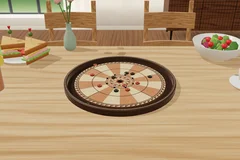
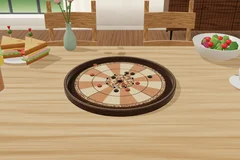
Crokinole marquetry: the centre's triangles back as before; the border band is a triangle lattice bent round the ring (two rows, each piece its own wood, tone and grain, glue seams)
Claude-Session: https://claude.ai/code/session_019p8B6UqeAdsK6vNEgpDiqd

diff --git a/atlas/models/crokinole.js b/atlas/models/crokinole.js
@@ -94,35 +94,32 @@
     classic: (N) => { const O = { cx: 4, by: -46, asp: .11, sp: .62, wp: 2.2, ring: .55, fib: .34, drift: .32 }, A = hx('#ebd09d'), B = hx('#b8864f');
       return (x, y) => mix(A, B, .14 + woodT(N, x, y, O) * .66); },
     marq: (N) => {
-      // every piece is cut to its place: the fields are rings of polar cells between the stringers, each cell split into
-      // triangles (a sawtooth band outside the 5 line; inside the 15 a sixteen-ray star, a sawtooth ring and a ring of
-      // diamonds), each piece its own wood with the grain along the cell, glue seams between pieces
-      const O = { cx: 0, by: -40, asp: .08, sp: .45, wp: 1.4, ring: .5, fib: .4, drift: .25 }, SEAM = [40, 24, 14];
-      const piece = (w, tan, rad, off, along) => mix(w[0], w[1], .14 + woodT(N, along ? tan : rad, along ? rad : tan, Object.assign({}, O, { off, by: -30 })) * .5);
-      const seamed = (col, d) => d < .045 ? mix(col, SEAM, .6) : d < .08 ? mix(col, SEAM, .2) : col;
-      // a ring r0..r1 cut into n cells; kind: 'saw' (one diagonal), 'dia' (both diagonals: four triangles), 'ray' (no split)
-      const ringPx = (r, th, r0, r1, n, kind, woods, seed) => {
-        const t = (r - r0) / (r1 - r0), a = (th + Math.PI) / (2 * Math.PI) * n, ia = Math.floor(a), fa = a - ia, arc = 2 * Math.PI * r / n, wd = r1 - r0;
-        const tan = (fa - .5) * arc; let k, dd = Math.min(fa, 1 - fa) * arc, along = true;
-        if (kind === 'saw') { const up = fa < t; k = up ? 0 : 1; dd = Math.min(dd, Math.abs(fa - t) * Math.min(arc, wd) * .7); along = up; }
-        else if (kind === 'dia') { const u = fa - .5, v = t - .5, q = Math.abs(u) * arc > Math.abs(v) * wd; k = q ? (u < 0 ? 0 : 2) : (v < 0 ? 1 : 3); k = k % 2; dd = Math.min(dd, Math.abs(Math.abs(u) * arc - Math.abs(v) * wd) * .7); along = !q; }
-        else k = ia % 2;
-        const w = woods[(k + (kind === 'ray' ? 0 : ia % 2) * (woods.length > 2 ? 1 : 0)) % woods.length];
-        return seamed(piece(w, tan, r, seed + ia * 7.3 + k * 3.1, along), dd);
-      };
+      // inside the 15: small triangles of maple, cherry and walnut. Outside the 5: the same three woods, but every piece cut to
+      // the ring — a triangle lattice bent round the board (two rows between the stringers), each piece its own wood, tone
+      // and grain direction, glue seams between them
+      const W3 = [WOOD.maple, WOOD.cherry, WOOD.walnut], O = { cx: 0, by: -40, asp: .08, sp: .45, wp: 1.4, ring: .5, fib: .4, drift: .25 }, SEAM = [40, 24, 14];
+      const woodOf = h => W3[h < .42 ? 0 : h < .76 ? 1 : 2];
+      const grain = (x, y, dir, h, w) => { const c = Math.cos(dir), sn = Math.sin(dir), t = woodT(N, x * c + y * sn, -x * sn + y * c, Object.assign({}, O, { off: h * 40 })); return mix(w[0], w[1], .1 + t * .5 + (hash(h * 91, 3, 7) - .5) * .12); };
+      const B0 = R5 + .7, ROWS = 2, BW = (RB - B0) / ROWS, NB = Math.round(2 * Math.PI * (B0 + RB) / 2 / (BW / .866));
       return (x, y) => {
-        const r = Math.hypot(x, y), th = Math.atan2(y, x);
-        if (r > R5 + .7) return ringPx(r, th, R5 + .7, RB, 64, 'saw', [WOOD.maple, WOOD.walnut], 11);
-        if (r < R15 - .6) {
-          if (r < 4.4) return ringPx(r, th, 0, 4.4, 16, 'ray', [WOOD.cherry, WOOD.maple], 3);
-          if (r < 6.9) return ringPx(r, th, 4.4, 6.9, 24, 'saw', [WOOD.walnut, WOOD.maple, WOOD.cherry], 5);
-          return ringPx(r, th, 6.9, R15 - .6, 28, 'dia', [WOOD.maple, WOOD.cherry], 7);
+        const r = Math.hypot(x, y);
+        if (r < R15 - .35) {
+          const T = triTile(x, y, 1.7), col = grain(x, y, T.dir, T.h, woodOf(T.h));
+          return T.e < .035 ? mix(col, SEAM, .55) : col;
         }
-        const n = 16, k = Math.floor((th + Math.PI) / (2 * Math.PI / n)), thc = -Math.PI + (k + .5) * 2 * Math.PI / n;
+        if (r > B0) {
+          const th = Math.atan2(y, x), rr = (r - B0) / BW, row = Math.min(ROWS - 1, Math.floor(rr)), t = rr - row;
+          const a = (th + Math.PI) / (2 * Math.PI) * NB + row * .5 - t * .5, ia = Math.floor(a), fa = a - ia, up = fa + t < 1 ? 1 : 0;
+          const e = up ? Math.min(fa, t, 1 - fa - t) : Math.min(1 - fa, 1 - t, fa + t - 1);
+          const h = hash(ia, row, up), dir = th + Math.PI / 2 + (Math.floor(hash(row, ia, up + 3) * 3)) * Math.PI / 3;
+          const col = grain(x, y, dir, h, woodOf(h));
+          return e < .045 ? mix(col, SEAM, .6) : e < .08 ? mix(col, SEAM, .2) : col;
+        }
+        const n = 16, th = Math.atan2(y, x), k = Math.floor((th + Math.PI) / (2 * Math.PI / n)), thc = -Math.PI + (k + .5) * 2 * Math.PI / n;
         const tan = r * Math.sin(th - thc), w = k % 2 ? WOOD.cherry : WOOD.maple;
         const col = mix(w[0], w[1], .12 + woodT(N, tan, r, Object.assign({}, O, { off: k * 9.7, by: -30 })) * .5);
         const seam = Math.min(Math.abs(r * Math.sin(th - (-Math.PI + k * 2 * Math.PI / n))), Math.abs(r * Math.sin(th - (-Math.PI + (k + 1) * 2 * Math.PI / n))));
-        return seamed(col, seam);
+        return seam < .05 ? mix(col, SEAM, .5) : col;
       };
     },
     winter: (N) => { const A = hx('#eef6fb'), B = hx('#b9d2e4');
@@ -146,7 +143,7 @@
   function decorate(g, look, u, X0) {
     const at = (x, y) => [X0(x), X0(y)];
     if (look === 'marq') {   // maple and walnut stringers round the triangle fields
-      for (const [r, c, w] of [[R15 - .38, '#e9cf9c', .36], [R15 - .6, '#3a2414', .08], [R5 + .48, '#e9cf9c', .36], [R5 + .7, '#3a2414', .08], [6.9, '#3a2414', .12], [4.4, '#e9cf9c', .2], [4.4 + .14, '#3a2414', .06], [RB - .06, '#3a2414', .14]]) { g.strokeStyle = c; g.lineWidth = w * u; g.beginPath(); g.arc(X0(0), X0(0), r * u, 0, Math.PI * 2); g.stroke(); }
+      for (const [r, c, w] of [[R15 - .35, '#e9cf9c', .22], [R15 - .6, '#3a2414', .1], [R5 + .45, '#e9cf9c', .22], [R5 + .7, '#3a2414', .1], [R5 + .7 + (RB - R5 - .7) / 2, 'rgba(40,24,14,.7)', .05], [RB - .06, '#3a2414', .14]]) { g.strokeStyle = c; g.lineWidth = w * u; g.beginPath(); g.arc(X0(0), X0(0), r * u, 0, Math.PI * 2); g.stroke(); }
     } else if (look === 'winter') {
       // a soft aurora veil, a red maple leaf under the hole, snowflakes
       g.save(); g.globalCompositeOperation = 'multiply';

diff --git a/dots/index.html b/dots/index.html
@@ -2297,7 +2297,7 @@ document.querySelector('#rsResume').onclick = () => { document.querySelector('#r
   const f = document.createElement('link'); f.rel = 'stylesheet'; f.href = 'https://fonts.googleapis.com/css2?family=RocknRoll+One&family=Zen+Maru+Gothic:wght@500;700;900&family=Fredoka:wght@600;700&family=Kalam:wght@400;700&family=Zen+Kurenaido&family=Nanum+Pen+Script&family=Long+Cang&family=Aref+Ruqaa:wght@700&display=swap'; document.head.appendChild(f);   // (Kalam … Aref Ruqaa: the handwritten box initials and tally on the notebook page)
   const load = src => new Promise((res, rej) => { const s = document.createElement('script'); s.src = src; s.onload = res; s.onerror = rej; document.body.appendChild(s); });
   if (window.AtlasLoading) { AtlasLoading.show(); setTimeout(() => AtlasLoading.hide(), 12000); }   // safety net
-  load('https://cdnjs.cloudflare.com/ajax/libs/three.js/r128/three.min.js').then(() => load('../atlas/table3d.js?v=132')).then(() => load('../atlas/tables3d.js?v=46')).then(() => load('../atlas/skin/common.js?v=51npc')).then(() => load('../atlas/models/dots.js?v=3l14')).then(() => load('../atlas/skin/dots.js?v=7l14'))
+  load('https://cdnjs.cloudflare.com/ajax/libs/three.js/r128/three.min.js').then(() => load('../atlas/table3d.js?v=132')).then(() => load('../atlas/tables3d.js?v=47')).then(() => load('../atlas/skin/common.js?v=51npc')).then(() => load('../atlas/models/dots.js?v=3l14')).then(() => load('../atlas/skin/dots.js?v=7l14'))
     .catch(() => { document.documentElement.classList.remove('atlas-skin'); if (window.AtlasLoading) AtlasLoading.hide(); });
 })();
 </script>

diff --git a/ur/index.html b/ur/index.html
@@ -1027,7 +1027,7 @@ html:not([lang=ja]):not([lang=zh]):not([lang="zh-TW"]):not([lang=ko]) .result-bi
   const f = document.createElement('link'); f.rel = 'stylesheet'; f.href = 'https://fonts.googleapis.com/css2?family=RocknRoll+One&family=Zen+Maru+Gothic:wght@500;700;900&family=Fredoka:wght@600;700&display=swap'; document.head.appendChild(f);
   const load = src => new Promise((res, rej) => { const s = document.createElement('script'); s.src = src; s.onload = res; s.onerror = rej; document.body.appendChild(s); });
   if (window.AtlasLoading) { AtlasLoading.show(); setTimeout(() => AtlasLoading.hide(), 12000); }   // safety net
-  load('https://cdnjs.cloudflare.com/ajax/libs/three.js/r128/three.min.js').then(() => load('../atlas/table3d.js?v=132')).then(() => load('../atlas/tables3d.js?v=46')).then(() => load('../atlas/skin/common.js?v=51npc')).then(() => load('../atlas/models/ur-dice.js?v=2l14')).then(() => load('../atlas/models/ur.js?v=3l14')).then(() => load('../atlas/skin/ur.js?v=14l14'))
+  load('https://cdnjs.cloudflare.com/ajax/libs/three.js/r128/three.min.js').then(() => load('../atlas/table3d.js?v=132')).then(() => load('../atlas/tables3d.js?v=47')).then(() => load('../atlas/skin/common.js?v=51npc')).then(() => load('../atlas/models/ur-dice.js?v=2l14')).then(() => load('../atlas/models/ur.js?v=3l14')).then(() => load('../atlas/skin/ur.js?v=14l14'))
     .catch(() => { const u = new URL(location.href); u.searchParams.delete('skin'); location.replace(u.href); });   // (the 3D files are missing: the plain 2D page)
 })();
 </script>

diff --git a/connect4/index.html b/connect4/index.html
@@ -3376,7 +3376,7 @@ document.addEventListener('keydown', e => {
   const f = document.createElement('link'); f.rel = 'stylesheet'; f.href = 'https://fonts.googleapis.com/css2?family=RocknRoll+One&family=Zen+Maru+Gothic:wght@500;700;900&family=Fredoka:wght@600;700&display=swap'; document.head.appendChild(f);
   const load = src => new Promise((res, rej) => { const s = document.createElement('script'); s.src = src; s.onload = res; s.onerror = rej; document.body.appendChild(s); });
   if (window.AtlasLoading) { AtlasLoading.show(); setTimeout(() => AtlasLoading.hide(), 12000); }   // safety net
-  load('https://cdnjs.cloudflare.com/ajax/libs/three.js/r128/three.min.js').then(() => load('../atlas/table3d.js?v=132')).then(() => load('../atlas/tables3d.js?v=46')).then(() => load('../atlas/skin/common.js?v=51npc')).then(() => load('../atlas/models/connect4.js?v=5l14')).then(() => load('../atlas/games/connect4-tiles.js?v=1l14')).then(() => load('../atlas/skin/connect4.js?v=6l14-aim'))
+  load('https://cdnjs.cloudflare.com/ajax/libs/three.js/r128/three.min.js').then(() => load('../atlas/table3d.js?v=132')).then(() => load('../atlas/tables3d.js?v=47')).then(() => load('../atlas/skin/common.js?v=51npc')).then(() => load('../atlas/models/connect4.js?v=5l14')).then(() => load('../atlas/games/connect4-tiles.js?v=1l14')).then(() => load('../atlas/skin/connect4.js?v=6l14-aim'))
     .catch(() => { document.documentElement.classList.remove('atlas-skin'); if (window.AtlasLoading) AtlasLoading.hide(); });
 })();
 </script>

diff --git a/morris/index.html b/morris/index.html
@@ -3866,7 +3866,7 @@ window.addEventListener('resize', () => renderFx());
   const f = document.createElement('link'); f.rel = 'stylesheet'; f.href = 'https://fonts.googleapis.com/css2?family=RocknRoll+One&family=Zen+Maru+Gothic:wght@500;700;900&family=Fredoka:wght@600;700&display=swap'; document.head.appendChild(f);
   const load = src => new Promise((res, rej) => { const s = document.createElement('script'); s.src = src; s.onload = res; s.onerror = rej; document.body.appendChild(s); });
   if (window.AtlasLoading) { AtlasLoading.show(); setTimeout(() => AtlasLoading.hide(), 12000); }   // safety net
-  load('https://cdnjs.cloudflare.com/ajax/libs/three.js/r128/three.min.js').then(() => load('../atlas/table3d.js?v=132')).then(() => load('../atlas/tables3d.js?v=46')).then(() => load('../atlas/skin/common.js?v=51npc')).then(() => load('../atlas/models/morris.js?v=6l14')).then(() => load('../atlas/games/morris-pieces.js?v=2l14')).then(() => load('../atlas/skin/morris.js?v=6l14'))
+  load('https://cdnjs.cloudflare.com/ajax/libs/three.js/r128/three.min.js').then(() => load('../atlas/table3d.js?v=132')).then(() => load('../atlas/tables3d.js?v=47')).then(() => load('../atlas/skin/common.js?v=51npc')).then(() => load('../atlas/models/morris.js?v=6l14')).then(() => load('../atlas/games/morris-pieces.js?v=2l14')).then(() => load('../atlas/skin/morris.js?v=6l14'))
     .catch(() => { document.documentElement.classList.remove('atlas-skin'); if (window.AtlasLoading) AtlasLoading.hide(); });
 })();
 </script>

diff --git a/senet/index.html b/senet/index.html
@@ -1028,7 +1028,7 @@ html:not([lang=ja]):not([lang=zh]):not([lang=zh-TW]):not([lang=ko]) .result-big{
   const f = document.createElement('link'); f.rel = 'stylesheet'; f.href = 'https://fonts.googleapis.com/css2?family=RocknRoll+One&family=Zen+Maru+Gothic:wght@500;700;900&family=Fredoka:wght@600;700&display=swap'; document.head.appendChild(f);
   const load = src => new Promise((res, rej) => { const s = document.createElement('script'); s.src = src; s.onload = res; s.onerror = rej; document.body.appendChild(s); });
   if (window.AtlasLoading) { AtlasLoading.show(); setTimeout(() => AtlasLoading.hide(), 12000); }   // safety net
-  load('https://cdnjs.cloudflare.com/ajax/libs/three.js/r128/three.min.js').then(() => load('../atlas/table3d.js?v=132')).then(() => load('../atlas/tables3d.js?v=46')).then(() => load('../atlas/skin/common.js?v=51npc')).then(() => load('../atlas/models/senet.js?v=10l14')).then(() => load('../atlas/skin/senet.js?v=10l14'))
+  load('https://cdnjs.cloudflare.com/ajax/libs/three.js/r128/three.min.js').then(() => load('../atlas/table3d.js?v=132')).then(() => load('../atlas/tables3d.js?v=47')).then(() => load('../atlas/skin/common.js?v=51npc')).then(() => load('../atlas/models/senet.js?v=10l14')).then(() => load('../atlas/skin/senet.js?v=10l14'))
     .catch(() => { const u = new URL(location.href); u.searchParams.delete('skin'); location.replace(u.href); });   // (the 3D files are missing: the plain 2D page)
 })();
 </script>

diff --git a/fanorona/index.html b/fanorona/index.html
@@ -1685,7 +1685,7 @@ body.lt-on .reserve .onb.on{border-color:var(--accent);box-shadow:0 0 0 1px var(
   const f = document.createElement('link'); f.rel = 'stylesheet'; f.href = 'https://fonts.googleapis.com/css2?family=RocknRoll+One&family=Zen+Maru+Gothic:wght@500;700;900&family=Fredoka:wght@600;700&display=swap'; document.head.appendChild(f);
   const load = src => new Promise((res, rej) => { const s = document.createElement('script'); s.src = src; s.onload = res; s.onerror = rej; document.body.appendChild(s); });
   if (window.AtlasLoading) { AtlasLoading.show(); setTimeout(() => AtlasLoading.hide(), 12000); }   // safety net
-  load('https://cdnjs.cloudflare.com/ajax/libs/three.js/r128/three.min.js').then(() => load('../atlas/table3d.js?v=132')).then(() => load('../atlas/tables3d.js?v=46')).then(() => load('../atlas/skin/common.js?v=51npc')).then(() => load('../atlas/models/fanorona.js?v=3l14')).then(() => load('../atlas/skin/fanorona.js?v=6l14'))
+  load('https://cdnjs.cloudflare.com/ajax/libs/three.js/r128/three.min.js').then(() => load('../atlas/table3d.js?v=132')).then(() => load('../atlas/tables3d.js?v=47')).then(() => load('../atlas/skin/common.js?v=51npc')).then(() => load('../atlas/models/fanorona.js?v=3l14')).then(() => load('../atlas/skin/fanorona.js?v=6l14'))
     .catch(() => { document.documentElement.classList.remove('atlas-skin'); if (window.AtlasLoading) AtlasLoading.hide(); });
 })();
 </script>

diff --git a/mancala/index.html b/mancala/index.html
@@ -1584,7 +1584,7 @@ html[data-sk=ocean] .seed{box-shadow:0 calc(var(--u) * .025) calc(var(--u) * .04
   const f = document.createElement('link'); f.rel = 'stylesheet'; f.href = 'https://fonts.googleapis.com/css2?family=RocknRoll+One&family=Zen+Maru+Gothic:wght@500;700;900&family=Fredoka:wght@600;700&display=swap'; document.head.appendChild(f);
   const load = src => new Promise((res, rej) => { const s = document.createElement('script'); s.src = src; s.onload = res; s.onerror = rej; document.body.appendChild(s); });
   if (window.AtlasLoading) { AtlasLoading.show(); setTimeout(() => AtlasLoading.hide(), 12000); }   // safety net
-  load('https://cdnjs.cloudflare.com/ajax/libs/three.js/r128/three.min.js').then(() => load('../atlas/table3d.js?v=132')).then(() => load('../atlas/tables3d.js?v=46')).then(() => load('../atlas/skin/common.js?v=51npc')).then(() => load('../atlas/models/mancala.js?v=4l14')).then(() => load('../atlas/skin/mancala.js?v=10l14'))
+  load('https://cdnjs.cloudflare.com/ajax/libs/three.js/r128/three.min.js').then(() => load('../atlas/table3d.js?v=132')).then(() => load('../atlas/tables3d.js?v=47')).then(() => load('../atlas/skin/common.js?v=51npc')).then(() => load('../atlas/models/mancala.js?v=4l14')).then(() => load('../atlas/skin/mancala.js?v=10l14'))
     .catch(() => { document.documentElement.classList.remove('atlas-skin'); if (window.AtlasLoading) AtlasLoading.hide(); });
 })();
 </script>

diff --git a/gomoku/index.html b/gomoku/index.html
@@ -1441,7 +1441,7 @@ body.skin-ink .st.b{background:radial-gradient(circle at 34% 28%,#8a8f98 0%,#3c4
   const f = document.createElement('link'); f.rel = 'stylesheet'; f.href = 'https://fonts.googleapis.com/css2?family=RocknRoll+One&family=Zen+Maru+Gothic:wght@500;700;900&family=Fredoka:wght@600;700&display=swap'; document.head.appendChild(f);
   const load = src => new Promise((res, rej) => { const s = document.createElement('script'); s.src = src; s.onload = res; s.onerror = rej; document.body.appendChild(s); });
   if (window.AtlasLoading) { AtlasLoading.show(); setTimeout(() => AtlasLoading.hide(), 12000); }   // safety net
-  load('https://cdnjs.cloudflare.com/ajax/libs/three.js/r128/three.min.js').then(() => load('../atlas/table3d.js?v=132')).then(() => load('../atlas/tables3d.js?v=46')).then(() => load('../atlas/skin/common.js?v=51npc')).then(() => load('../atlas/models/goban.js?v=11l14')).then(() => load('../atlas/skin/gomoku.js?v=4l14'))
+  load('https://cdnjs.cloudflare.com/ajax/libs/three.js/r128/three.min.js').then(() => load('../atlas/table3d.js?v=132')).then(() => load('../atlas/tables3d.js?v=47')).then(() => load('../atlas/skin/common.js?v=51npc')).then(() => load('../atlas/models/goban.js?v=11l14')).then(() => load('../atlas/skin/gomoku.js?v=4l14'))
     .catch(() => { document.documentElement.classList.remove('atlas-skin'); if (window.AtlasLoading) AtlasLoading.hide(); });
 })();
 </script>

diff --git a/shogi/index.html b/shogi/index.html
@@ -5599,7 +5599,7 @@ if (window.Online && Online.available) setInterval(() => { if (dock.on) chatStar
   const f = document.createElement('link'); f.rel = 'stylesheet'; f.href = 'https://fonts.googleapis.com/css2?family=RocknRoll+One&family=Zen+Maru+Gothic:wght@500;700;900&family=Fredoka:wght@600;700&display=swap'; document.head.appendChild(f);
   const load = src => new Promise((res, rej) => { const s = document.createElement('script'); s.src = src; s.onload = res; s.onerror = rej; document.body.appendChild(s); });
   if (window.AtlasLoading) { AtlasLoading.show(); setTimeout(() => AtlasLoading.hide(), 12000); }   // safety net
-  load('https://cdnjs.cloudflare.com/ajax/libs/three.js/r128/three.min.js').then(() => load('../atlas/table3d.js?v=132')).then(() => load('../atlas/tables3d.js?v=46')).then(() => load('../atlas/skin/common.js?v=51npc')).then(() => load('../atlas/models/shogi.js?v=22l14')).then(() => load('../atlas/skin/shogi.js?v=13l14'))
+  load('https://cdnjs.cloudflare.com/ajax/libs/three.js/r128/three.min.js').then(() => load('../atlas/table3d.js?v=132')).then(() => load('../atlas/tables3d.js?v=47')).then(() => load('../atlas/skin/common.js?v=51npc')).then(() => load('../atlas/models/shogi.js?v=22l14')).then(() => load('../atlas/skin/shogi.js?v=13l14'))
     .catch(() => { document.documentElement.classList.remove('atlas-skin'); if (window.AtlasLoading) AtlasLoading.hide(); });
 })();
 </script>

diff --git a/ugolki/index.html b/ugolki/index.html
@@ -1389,7 +1389,7 @@ html:is([data-bd=gzhel],[data-bd=birch]) .reserve .rsv-plate .rsv-w:not(.hot) b{
   const f = document.createElement('link'); f.rel = 'stylesheet'; f.href = 'https://fonts.googleapis.com/css2?family=RocknRoll+One&family=Zen+Maru+Gothic:wght@500;700;900&family=Fredoka:wght@600;700&display=swap'; document.head.appendChild(f);
   const load = src => new Promise((res, rej) => { const s = document.createElement('script'); s.src = src; s.onload = res; s.onerror = rej; document.body.appendChild(s); });
   if (window.AtlasLoading) { AtlasLoading.show(); setTimeout(() => AtlasLoading.hide(), 12000); }   // safety net
-  load('https://cdnjs.cloudflare.com/ajax/libs/three.js/r128/three.min.js').then(() => load('../atlas/table3d.js?v=132')).then(() => load('../atlas/tables3d.js?v=46')).then(() => load('../atlas/skin/common.js?v=51npc')).then(() => load('../atlas/models/ugolki.js?v=4l14')).then(() => load('../atlas/skin/ugolki.js?v=2l14'))
+  load('https://cdnjs.cloudflare.com/ajax/libs/three.js/r128/three.min.js').then(() => load('../atlas/table3d.js?v=132')).then(() => load('../atlas/tables3d.js?v=47')).then(() => load('../atlas/skin/common.js?v=51npc')).then(() => load('../atlas/models/ugolki.js?v=4l14')).then(() => load('../atlas/skin/ugolki.js?v=2l14'))
     .catch(() => { document.documentElement.classList.remove('atlas-skin'); if (window.AtlasLoading) AtlasLoading.hide(); });
 })();
 </script>

diff --git a/alquerque/index.html b/alquerque/index.html
@@ -1687,7 +1687,7 @@ window.OL_VARIANTS = ['alq', 'alqf']; window.OL_DB_PREFIX = 'alq/';
   const f = document.createElement('link'); f.rel = 'stylesheet'; f.href = 'https://fonts.googleapis.com/css2?family=RocknRoll+One&family=Zen+Maru+Gothic:wght@500;700;900&family=Fredoka:wght@600;700&display=swap'; document.head.appendChild(f);
   const load = src => new Promise((res, rej) => { const s = document.createElement('script'); s.src = src; s.onload = res; s.onerror = rej; document.body.appendChild(s); });
   if (window.AtlasLoading) { AtlasLoading.show(); setTimeout(() => AtlasLoading.hide(), 12000); }   // safety net
-  load('https://cdnjs.cloudflare.com/ajax/libs/three.js/r128/three.min.js').then(() => load('../atlas/table3d.js?v=132')).then(() => load('../atlas/tables3d.js?v=46')).then(() => load('../atlas/skin/common.js?v=51npc')).then(() => load('../atlas/models/alquerque.js?v=3l14')).then(() => load('../atlas/skin/fanorona.js?v=6l14'))
+  load('https://cdnjs.cloudflare.com/ajax/libs/three.js/r128/three.min.js').then(() => load('../atlas/table3d.js?v=132')).then(() => load('../atlas/tables3d.js?v=47')).then(() => load('../atlas/skin/common.js?v=51npc')).then(() => load('../atlas/models/alquerque.js?v=3l14')).then(() => load('../atlas/skin/fanorona.js?v=6l14'))
     .catch(() => { document.documentElement.classList.remove('atlas-skin'); if (window.AtlasLoading) AtlasLoading.hide(); });
 })();
 </script>
